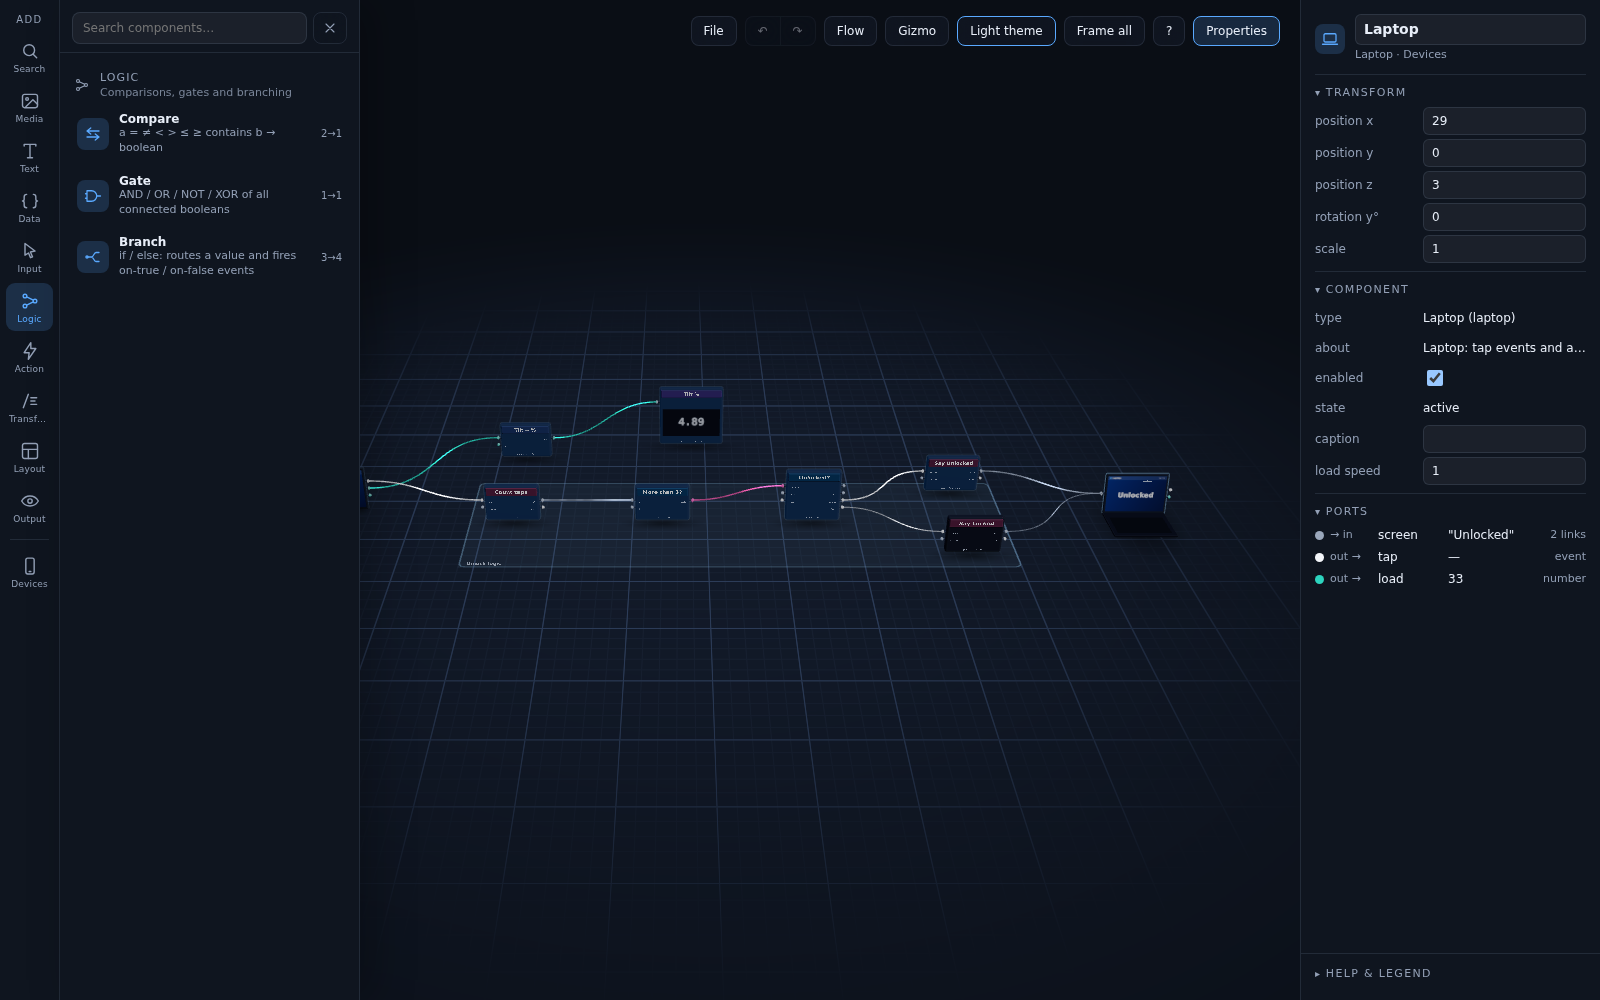
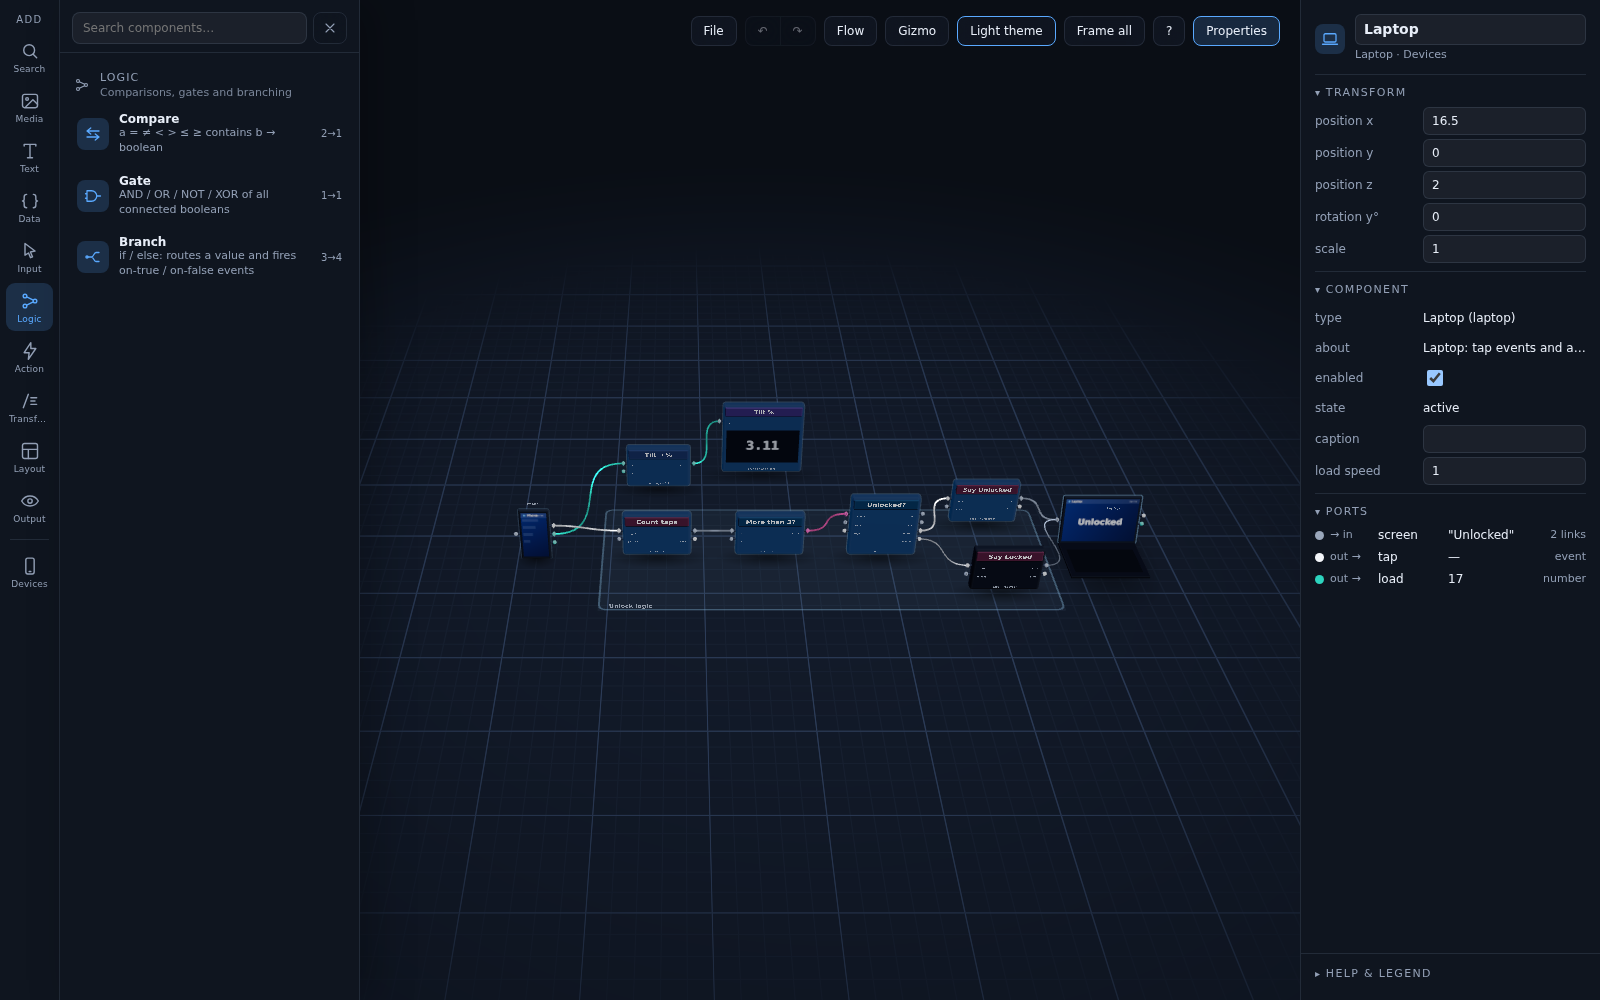
Tighten framing and compact the phone-to-laptop example
Frame all, F, initial load and Examples now fit the selection's bounding box to 75 % of
the visible area (canvas minus an open flyout) at a fixed 35° elevation and centre it
there. The phone → laptop example spans 33 units instead of ~50, with the tilt branch
stacked above the main row; both demos frame at LOD 0 (55 and 66 units).

Claude-Session: https://claude.ai/code/session_013NMbwRymxeKw3bi93rPLGh

diff --git a/src/workspace.js b/src/workspace.js
@@ -138,43 +138,55 @@ export function createWorkspace(container) {
     if (flight.k >= 1) flight = null;
   }
   /**
-   * Frame a set of blocks: keep the current view direction and find the nearest distance at which
-   * every corner of their bounding box projects inside the viewport (minus `insetLeft` px, e.g.
-   * an open flyout), then centre the box on screen.
+   * Frame a set of blocks. The visible area is the canvas (already excludes the left rail and the
+   * right panel) minus `insetLeft` px (an open flyout). Keeping the current azimuth at a fixed
+   * ~35° elevation, find the distance at which the blocks' bounding box fills `fill` (75 %) of the
+   * visible width or height, whichever binds, then centre the box in that area.
    */
-  function frameBlocks(blocks, { pad = 0.86, minRadius = 3, instant = false, insetLeft = 0 } = {}) {
+  const ELEVATION = THREE.MathUtils.degToRad(35);
+  function frameBlocks(blocks, { fill = 0.75, minRadius = 3, instant = false, insetLeft = 0 } = {}) {
     const list = (blocks || []).filter(Boolean);
     const dur = instant ? 0 : 0.55;
-    if (!list.length) { flyTo(HOME.position, HOME.target, dur); return; }
+    if (!list.length) { flyTo(HOME.position, HOME.target, dur); return null; }
     const box = new THREE.Box3();
     const tmp = new THREE.Box3();
     for (const b of list) { if (b.getAABB) box.union(b.getAABB(tmp)); else if (b.center) box.expandByPoint(b.center); }
-    box.expandByScalar(minRadius * 0.3);
+    box.expandByScalar(minRadius * 0.2);
     const center = box.getCenter(new THREE.Vector3());
-    const dir = camera.position.clone().sub(controls.target).normalize();
-    if (dir.y < 0.35) { dir.y = 0.35; dir.normalize(); }
+    // view direction: current azimuth, fixed elevation
+    const cur = camera.position.clone().sub(controls.target);
+    const az = Math.atan2(cur.x, cur.z || 1e-6);
+    const dir = new THREE.Vector3(Math.sin(az) * Math.cos(ELEVATION), Math.sin(ELEVATION), Math.cos(az) * Math.cos(ELEVATION));
     const corners = [];
     for (let i = 0; i < 8; i++) corners.push(new THREE.Vector3(i & 1 ? box.max.x : box.min.x, i & 2 ? box.max.y : box.min.y, i & 4 ? box.max.z : box.min.z));
-    const cam = camera.clone();
-    const w = container.clientWidth || 1, insetNdc = insetLeft / w; // the usable NDC range is [-1 + 2·inset, 1]
+    const W = container.clientWidth || 1, H = container.clientHeight || 1;
+    const visW = Math.max(100, W - insetLeft);               // visible pixels
+    const cam = new THREE.PerspectiveCamera(camera.fov, W / H, camera.near, camera.far);
     const ndc = new THREE.Vector3();
-    const fits = (dist) => {
+    // projected extents of the box (in pixels) at a given distance
+    const extents = (dist) => {
       cam.position.copy(center).addScaledVector(dir, dist); cam.lookAt(center); cam.updateMatrixWorld(); cam.updateProjectionMatrix();
       let minX = 1, maxX = -1, minY = 1, maxY = -1;
       for (const c of corners) { ndc.copy(c).project(cam); minX = Math.min(minX, ndc.x); maxX = Math.max(maxX, ndc.x); minY = Math.min(minY, ndc.y); maxY = Math.max(maxY, ndc.y); }
-      return { ok: maxX - minX <= 2 * pad * (1 - insetNdc) && maxY - minY <= 2 * pad, minX, maxX, minY, maxY };
+      return { pxW: (maxX - minX) / 2 * W, pxH: (maxY - minY) / 2 * H, minX, maxX, minY, maxY };
     };
-    let lo = 4, hi = controls.maxDistance;
-    for (let i = 0; i < 18; i++) { const mid = (lo + hi) / 2; if (fits(mid).ok) hi = mid; else lo = mid; }
-    const dist = Math.min(hi, controls.maxDistance);
-    // centre: shift the target sideways / up so the box sits in the middle of the usable area
-    const f = fits(dist);
+    // the projected size is ~inversely proportional to distance: two passes converge closely
+    let dist = Math.max(8, box.getSize(new THREE.Vector3()).length());
+    for (let i = 0; i < 4; i++) {
+      const e = extents(dist);
+      const k = Math.max(e.pxW / (visW * fill), e.pxH / (H * fill)); // >1 → too close
+      dist = THREE.MathUtils.clamp(dist * k, 6, controls.maxDistance);
+    }
+    // centre the box in the visible area (shift target sideways / up in view space)
+    const e = extents(dist);
     const right = new THREE.Vector3().crossVectors(new THREE.Vector3(0, 1, 0), dir).normalize();
     const up = new THREE.Vector3().crossVectors(dir, right).normalize();
-    const halfH = dist * Math.tan(THREE.MathUtils.degToRad(camera.fov) / 2), halfW = halfH * camera.aspect;
-    const cx = (f.minX + f.maxX) / 2 - insetNdc, cy = (f.minY + f.maxY) / 2;
+    const halfH = dist * Math.tan(THREE.MathUtils.degToRad(camera.fov) / 2), halfW = halfH * (W / H);
+    const visCentreNdc = insetLeft / W;                       // centre of the visible area in NDC x
+    const cx = (e.minX + e.maxX) / 2 - visCentreNdc, cy = (e.minY + e.maxY) / 2;
     const target = center.clone().addScaledVector(right, cx * halfW).addScaledVector(up, cy * halfH);
     flyTo(target.clone().addScaledVector(dir, dist), target, dur);
+    return dist;
   }
   /** Fog thins as the camera pulls back so a far overview stays readable instead of fading out. */
   function updateFog() {

diff --git a/src/examples/phone-to-laptop.js b/src/examples/phone-to-laptop.js
@@ -6,17 +6,17 @@
 export default {
   id: 'phone-to-laptop', label: 'Phone → Logic → Laptop',
   description: 'Tap the phone 4 times to unlock the laptop; tilt drives a display',
-  camera: { position: [2, 26, 44], target: [2, 1, 1] },
+  camera: { position: [1, 24, 34], target: [1, 1, 1] },
   build({ add, connect, group }) {
-    const phone = add('phone', [-24, 0, 1]);
-    const count = add('action', [-13, null, 3], { title: 'Count taps', params: { mode: 'count' } });
-    const compare = add('compare', [-3, null, 3], { title: 'More than 3?', params: { op: '>', b: '3' } });
-    const branch = add('branch', [7, null, 3], { title: 'Unlocked?' });
-    const unlock = add('action', [17, null, -1], { title: 'Say Unlocked', params: { mode: 'pass', payload: 'Unlocked' } });
-    const lock = add('action', [17, null, 7], { title: 'Say Locked', params: { mode: 'pass', payload: 'Locked' } });
-    const laptop = add('laptop', [29, 0, 3]);
-    const map = add('transform', [-13, null, -6], { title: 'Tilt → %', params: { mode: 'map range', inMin: -45, inMax: 45, outMin: 0, outMax: 100 } });
-    const show = add('display', [-1, null, -8], { title: 'Tilt %', params: { caption: 'phone tilt as percent' } });
+    const phone = add('phone', [-14, 0, 2]);
+    const count = add('action', [-7.5, null, 2], { title: 'Count taps', params: { mode: 'count' } });
+    const compare = add('compare', [-1.5, null, 2], { title: 'More than 3?', params: { op: '>', b: '3' } });
+    const branch = add('branch', [4.5, null, 2], { title: 'Unlocked?' });
+    const unlock = add('action', [10.5, null, -1], { title: 'Say Unlocked', params: { mode: 'pass', payload: 'Unlocked' } });
+    const lock = add('action', [10.5, null, 5], { title: 'Say Locked', params: { mode: 'pass', payload: 'Locked' } });
+    const laptop = add('laptop', [16.5, 0, 2]);
+    const map = add('transform', [-7.5, null, -4.5], { title: 'Tilt → %', params: { mode: 'map range', inMin: -45, inMax: 45, outMin: 0, outMax: 100 } });
+    const show = add('display', [-1.5, null, -6], { title: 'Tilt %', params: { caption: 'phone tilt as percent' } });
 
     connect(phone, 'tap', count, 'trigger');
     connect(count, 'result', compare, 'a');

diff --git a/src/main.js b/src/main.js
@@ -41,7 +41,7 @@ const interaction = new Interaction({
   onFocus: (blocks) => ws.frameBlocks(blocks, { insetLeft: leftBar?.isOpen ? 300 : 0 }),
   onFrameAll: () => frameAll(),
 });
-function frameAll(opts = {}) { ws.frameBlocks([...world.nodes.filter((n) => n.visible), ...world.groups.filter((g) => g.collapsed)], { insetLeft: leftBar?.isOpen ? 300 : 0, ...opts }); }
+function frameAll(opts = {}) { return ws.frameBlocks([...world.nodes.filter((n) => n.visible), ...world.groups.filter((g) => g.collapsed)], { insetLeft: leftBar?.isOpen ? 300 : 0, ...opts }); }
 
 /* ---- Properties panel ---- */
 const panel = new Panel({
